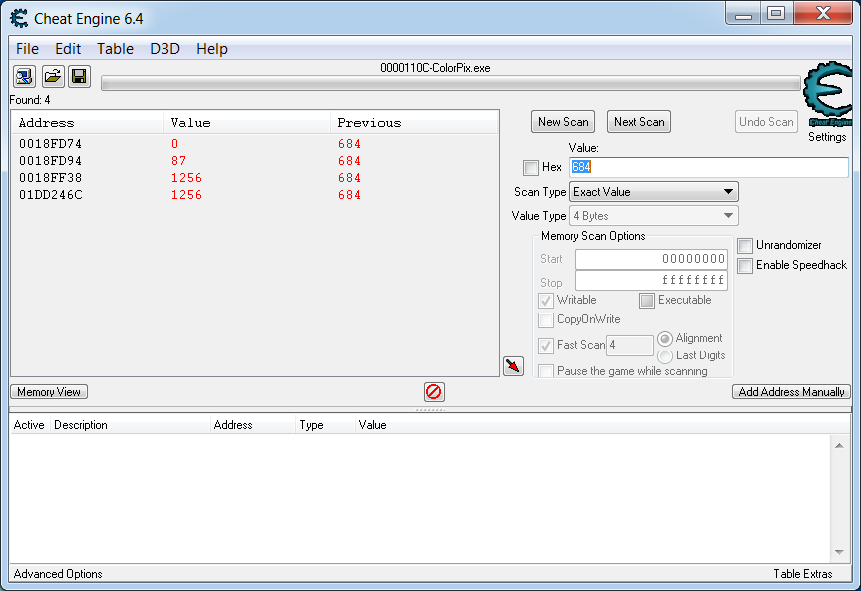
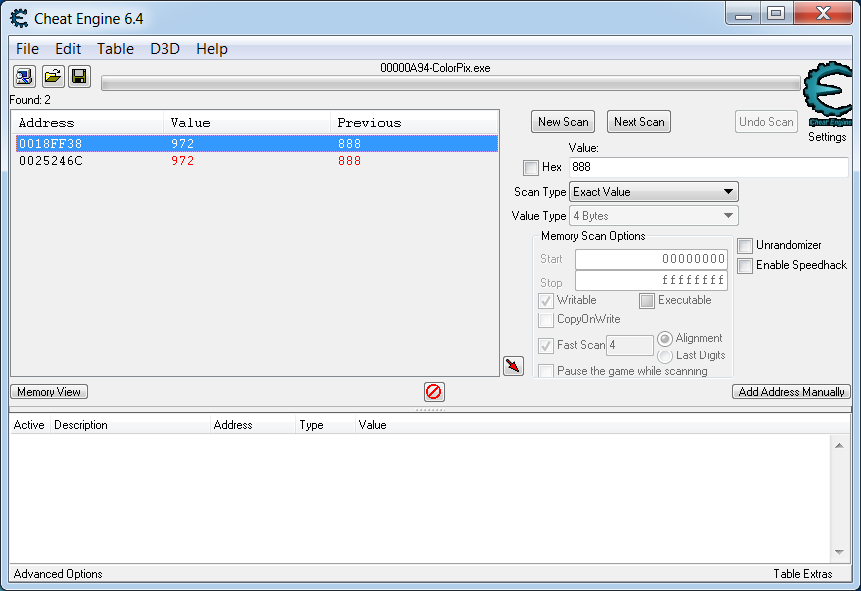
- Add screenshots of the OllyDbg results for ColorPix - Fix screenshot with Cheat Engine's results

diff --git a/InGameBots/process-memory-analyzing.md b/InGameBots/process-memory-analyzing.md
@@ -130,7 +130,7 @@ Search results will be displayed in the list of Cheat Engine's window:
 
 ![Cheat Engine Result](cheatengine-result.png)
 
-If there are several values in the results list you should cut off incorrect variables. Type new value of the the available memory amount into the "Value" control and press "Next Scan" button. Be sure that the new value differs from a previous one. You can launch any application like Notepad for changing the available memory amount.
+If there are more than two absolute addresses in the results list you should cut off inappropriate variables. Move mouse to change X coordinate value of the current pixel. Then type new value into the "Value" control and press "Next Scan" button. Be sure that the new value differs from a previous one. There are still two variables after cutting of inappropriate ones with absolute coordinates equal to "0018FF38" and "0025246C"
 
 Now we know an absolute address of the variable. The address equals to "00352FF4" in hexadecimal system. Next step is investigation of process's segments with debugger to figure out the segment which contains the variable. Difference between x64dbg and OllyDbg debuggers is automatically detection of stack and heap segments in the process's memory map. OllyDbg detects these kinds of segments automatically but x64dbg does not. It is possible to repeat this segments detection of OllyDbg debugger manually. Each TEB segment contains base address of the thread's stack segment. PEB segment contains base address of the default heap segment.
 
